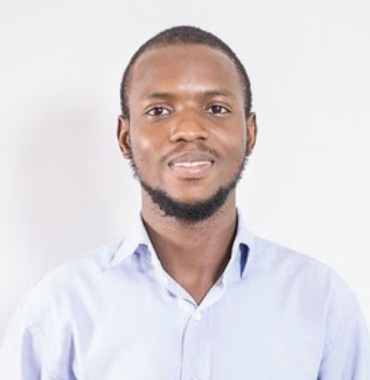
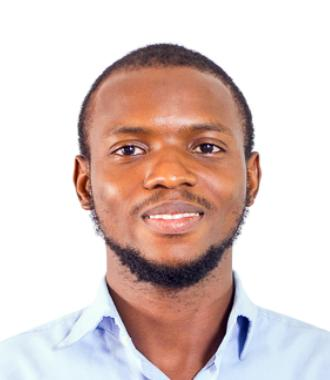
feature: update team page

diff --git a/pages/about-us.js b/pages/about-us.js
@@ -111,44 +111,53 @@ const OurCoreValues = () => (
   </section>
 );
 
+const teamMembers = [
+  {
+    name: 'Nnamdi Ijei',
+    role: 'CEO',
+    imgSrc: '/img/team/nnamdi.jpg',
+  },
+  {
+    name: 'Oluwatodimu Adeleke',
+    role: 'Legal',
+    imgSrc: '/img/team/oluwatodimu.jpg',
+  },
+  {
+    name: 'Haruna Popoola',
+    role: 'Lead Developer',
+    imgSrc: '/img/team/haruna.jpg',
+  },
+  {
+    name: 'Joshua Segbo',
+    role: 'Business Development',
+    imgSrc: '/img/team/joshua.jpg',
+  },
+];
+
 const OurTeam = () => (
-  <section className="container-fluid">
+  <section className="container-fluid text-center py-5">
     <h6 className="header-secondary">THE TEAM</h6>
-    <h2>
-      Meet our <br /> awesome team.
-    </h2>
-    <div className="row">
-      <div className="col-lg-3 col-sm-6 col-12 mb-5">
-        <Image
-          src="/img/team/nnamdi.jpg"
-          alt="Nnamdi Ijei"
-          width="370"
-          height="380"
-        />
-        <h5 className="mt-3 mb-0">Nnamdi Ijei</h5>
-        <p className="text-green fw-bold">CEO</p>
-      </div>
-      <div className="col-lg-3 col-sm-6 col-12 mb-5">
-        <Image
-          src="/img/team/leonard.jpg"
-          alt="Leonard Isiekwenagbu"
-          width="370"
-          height="380"
-        />
-        <h5 className="mt-3 mb-0">Leonard Isiekwenagbu</h5>
-        <p className="text-green fw-bold">BUSINESS DEVELOPMENT</p>
-      </div>
-      <div className="col-lg-3 col-sm-6 col-12 mb-5">
-        <Image
-          src="/img/team/haruna.jpg"
-          alt="Haruna Popoola"
-          width="370"
-          height="380"
-        />
-        <h5 className="mt-3 mb-0">Haruna Popoola</h5>
-        <p className="text-green fw-bold">LEAD DEVELOPER</p>
-      </div>
+    <h2>Meet our awesome team.</h2>
+    <div className="row justify-content-center px-5">
+      {teamMembers.map((member, index) => (
+        <div className="col-lg-3 col-sm-6 col-12 mb-5" key={index}>
+          <div className="team-member mt-5">
+            <div className="px-3">
+              <Image
+                src={member.imgSrc}
+                alt={member.name}
+                className="rounded img-fluid border"
+                width="370"
+                height="380"
+              />
+            </div>
+            <h5 className="mt-3 mb-1">{member.name}</h5>
+            <p className="text-green fw-bold">{member.role}</p>
+          </div>
+        </div>
+      ))}
     </div>
   </section>
 );
+
 export default AboutUs;

diff --git a/utils/constants.js b/utils/constants.js
@@ -519,11 +519,10 @@ export const MODEL = {
 };
 
 export const SOCIAL_MEDIA = {
-  facebook: 'https://www.facebook.com/Highrachy/',
-  twitter: 'https://twitter.com/highrachy',
-  instagram: 'https://www.instagram.com/highrachyhq/',
-  linkedin:
-    'https://www.linkedin.com/company/highrachy-investment-and-technology-limited',
+  facebook: 'https://web.facebook.com/Ballerverse',
+  twitter: 'https://x.com/BALLers_ng',
+  instagram: 'https://www.instagram.com/ballers.africa/',
+  linkedin: 'https://www.linkedin.com/company/ballers.africa/',
 };
 
 export const MILESTONE_STATUS = {

diff --git a/assets/sass/_ballers.scss b/assets/sass/_ballers.scss
@@ -911,3 +911,16 @@ mark {
 .floating-chat-button:hover {
   background-color: #128c7e;
 }
+
+.team-member {
+  transition: transform 0.3s;
+}
+
+.team-member:hover {
+  transform: translateY(-10px);
+}
+
+.team-member img {
+  border: 3px solid #f8f9fa;
+  padding: 10px;
+}
